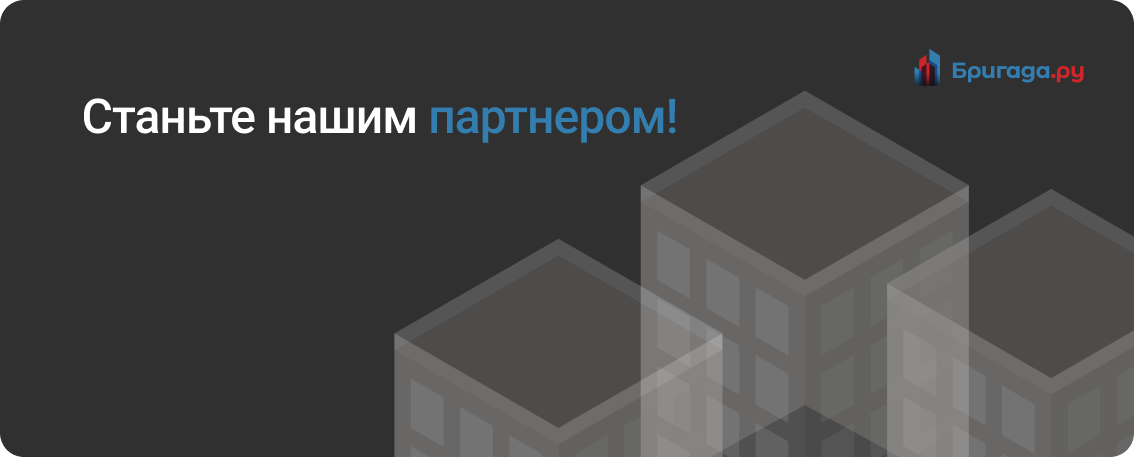
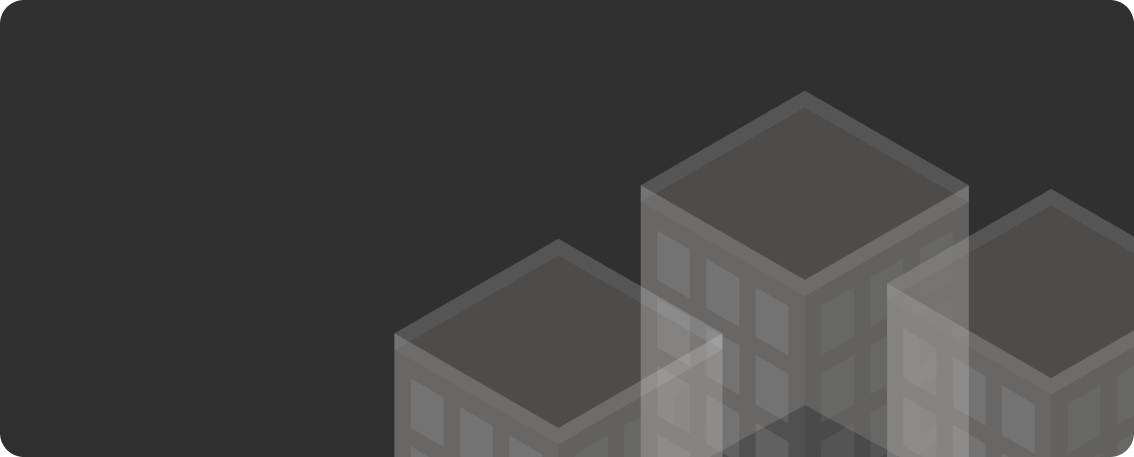
feat: change cta image

Changed region(s): [[0.0617, 0.2144, 0.6173, 0.3063], [0.8025, 0.1225, 0.9568, 0.1838]]

diff --git a/src/widgets/partner-carousel/ui/PartnerCarousel.tsx b/src/widgets/partner-carousel/ui/PartnerCarousel.tsx
@@ -6,6 +6,7 @@ import Image from "next/image";
 
 import { ChevronLeft, ChevronRight } from "lucide-react";
 
+import { Logo } from "@/shared/ui";
 import { Button } from "@/shared/ui/button/Button";
 import { Heading } from "@/shared/ui/heading/Heading";
 import { Section } from "@/shared/ui/section/Section";
@@ -36,14 +37,23 @@ export const PartnerCarousel = ({
   const [currentPartnerIndex, setCurrentPartnerIndex] = useState(0);
 
   const goToPrevious = () => {
-    setCurrentPartnerIndex((prev) => (prev === 0 ? partners.length - 1 : prev - 1));
+    setCurrentPartnerIndex((prev) => (prev === 0 ? partners.length : prev - 1));
   };
 
   const goToNext = () => {
-    setCurrentPartnerIndex((prev) => (prev === partners.length - 1 ? 0 : prev + 1));
+    setCurrentPartnerIndex((prev) => (prev === partners.length ? 0 : prev + 1));
   };
 
-  const current = partners[currentPartnerIndex];
+  const isCTA = currentPartnerIndex === partners.length;
+
+  const current = isCTA
+    ? {
+        name: "Станьте нашим партнером!",
+        image: "/partners/CTA.png",
+        badges: [],
+        benefits: [],
+      }
+    : partners[currentPartnerIndex];
 
   return (
     <Section className={className}>
@@ -65,25 +75,42 @@ export const PartnerCarousel = ({
           />
           <div className={styles.overlay} />
 
+          <div className={styles.logoContainer}>
+            <Logo />
+          </div>
+
           <div className={styles.content}>
             <div className={styles.textBlock}>
-              <Heading as="h3" className={styles.partnerName}>
-                {current.name}
-              </Heading>
+              {isCTA ? (
+                <>
+                  <Heading as="h3" size="h2" className={styles.ctaTitle}>
+                    Станьте нашим <span className={styles.highlightedText}>партнером!</span>
+                  </Heading>
+                </>
+              ) : (
+                <>
+                  <Heading as="h3" className={styles.partnerName}>
+                    {current.name}
+                  </Heading>
 
-              <div className={styles.badges}>
-                {current.badges.map((badge, index) => (
-                  <span key={index} className={styles.badge}>
-                    {badge}
-                  </span>
-                ))}
-              </div>
+                  <div className={styles.badges}>
+                    {current.badges.map((badge, index) => (
+                      <span key={index} className={styles.badge}>
+                        {badge}
+                      </span>
+                    ))}
+                  </div>
+                </>
+              )}
             </div>
 
             <div className={styles.navButtons}>
               <Button variant="white" size="sm" onClick={goToPrevious}>
                 <ChevronLeft size={16} />
               </Button>
+              <div className={styles.counter}>
+                {currentPartnerIndex + 1} / {partners.length + 1}
+              </div>
               <Button variant="white" size="sm" onClick={goToNext}>
                 <ChevronRight size={16} />
               </Button>

diff --git a/src/widgets/partner-carousel/ui/partnerCarousel.css.ts b/src/widgets/partner-carousel/ui/partnerCarousel.css.ts
@@ -71,6 +71,7 @@ export const textBlock = style({
   flexDirection: "column",
   gap: vars.spacing["12"],
   alignSelf: "flex-start",
+  maxWidth: "600px",
 });
 
 export const badges = style({
@@ -103,8 +104,51 @@ export const partnerName = style({
   color: vars.color.white,
 });
 
+export const ctaTitle = style({
+  height: '100%',
+  // fontSize: vars.font.size.h2,
+  fontWeight: vars.font.weight.bold,
+  color: vars.color.white,
+  lineHeight: 1.2,
+  marginTop: "50%",
+  // marginLeft: vars.spacing["20"],
+  // transform: "translateY(-50%)",
+});
+
+
+export const highlightedText = style({
+  color: vars.color.brand.secondary,
+});
+
+export const ctaSubtitle = style({
+  fontSize: vars.font.size.body1,
+  color: vars.color.white,
+  opacity: 0.9,
+  marginBottom: vars.spacing["24"],
+  maxWidth: "500px",
+});
+
+export const ctaButton = style({
+  alignSelf: "flex-start",
+  minWidth: "200px",
+});
+
+export const logoContainer = style({
+  position: "absolute",
+  top: vars.spacing["24"],
+  right: vars.spacing["24"],
+  zIndex: 3,
+});
+
 export const navButtons = style({
   display: "flex",
   width: "100%",
   justifyContent: "space-between",
+  alignItems: "center",
+});
+
+export const counter = style({
+  fontSize: vars.font.size.body2,
+  color: vars.color.white,
+  fontWeight: vars.font.weight.medium,
 });

diff --git a/src/widgets/partner-carousel/model/generalPartners.ts b/src/widgets/partner-carousel/model/generalPartners.ts
@@ -13,16 +13,16 @@ export const generalPartners: Partner[] = [
       "формирование кадрового резерва",
     ],
   },
-  {
-    name: "",
-    image: "/partners/join-us.png",
-    badges: [],
-    benefits: [],
-  },
-   {
-    name: "",
-    image: "/partners/CTA.png",
-    badges: [],
-    benefits: [],
-  },
+  // {
+  //   name: "",
+  //   image: "/partners/join-us.png",
+  //   badges: [],
+  //   benefits: [],
+  // },
+  //  {
+  //   name: "",
+  //   image: "/partners/CTA.png",
+  //   badges: [],
+  //   benefits: [],
+  // },
 ];
